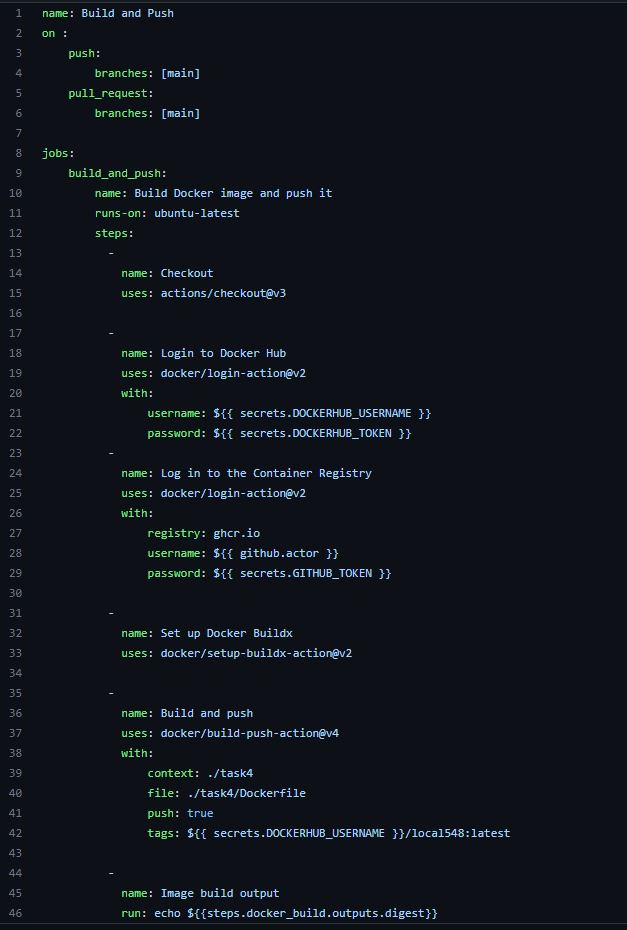
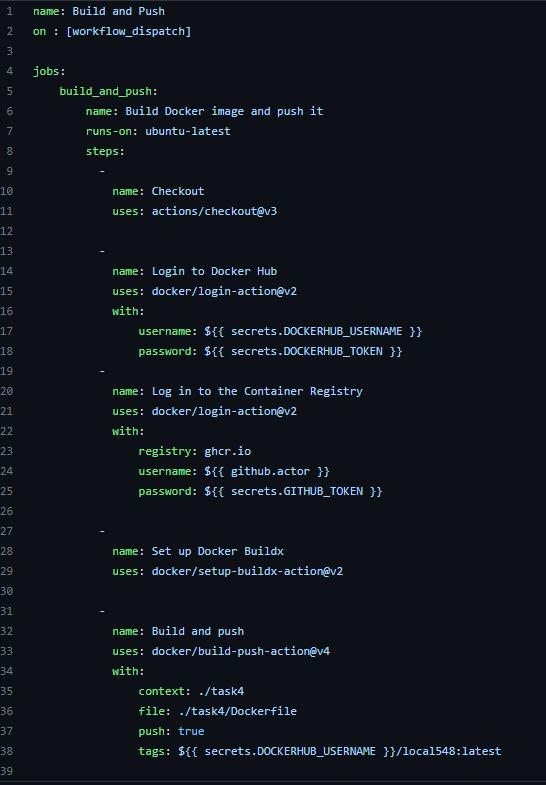
task 5 fixes

Changed region(s): [[0.0623, 0.0, 0.7784, 0.642], [0.0, 0.0, 1.0, 1.0], [0.1868, 0.6726, 0.6227, 0.7338]]

diff --git a/README.md b/README.md
@@ -199,8 +199,8 @@
 	![1](task5/1.JPG)
 	![2](task5/2.JPG)
 
-		2) Έπειτα δημιούργησα το workflow YAML file(μετά από μερικές προσπάθειες) το οποίο εκτελεί
-		ένα job μετά από κάθε push ή pull στο main branchκαι καλεί έναν ubuntu runner να τρέξει
+		2) Έπειτα δημιούργησα το workflow YAML file(μετά από μερικές προσπάθειες) το οποίο δημιουργεί
+		ένα workflow και έπειτα όταν ο χρήστης το τρέξει θα καλέσει έναν ubuntu runner να τρέξει
 		το job. Αυτός ο runner κάνει checkout στο branch, κάνει login στο dockerhub με την χρήση
 		του token και μετά login στο container registry του github. Κάνει setup το docker buildx
 		για να μπορέσει να κάνει build το Dockerfile και έπειτα push στο repo. Σύμφωνα με το output
